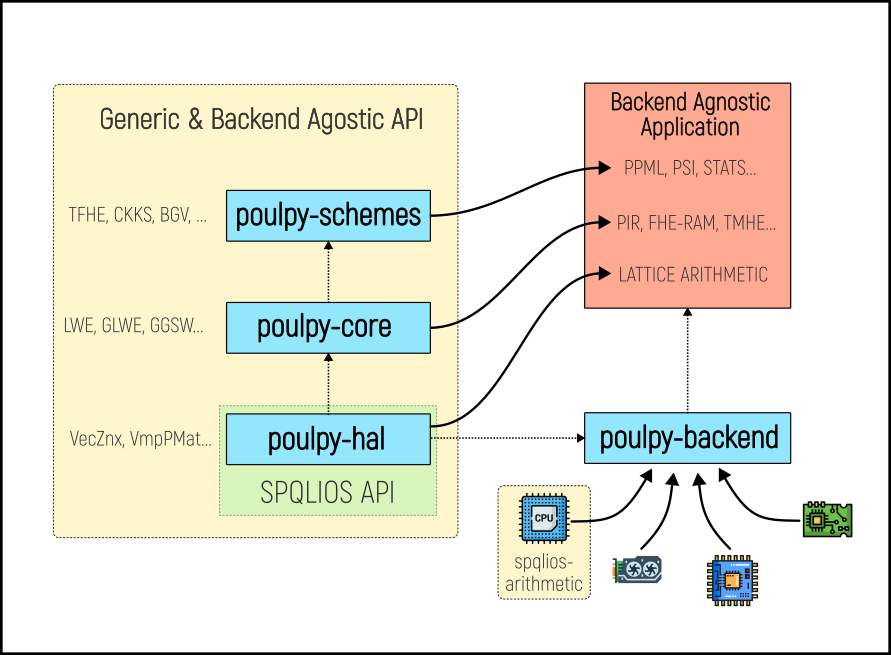
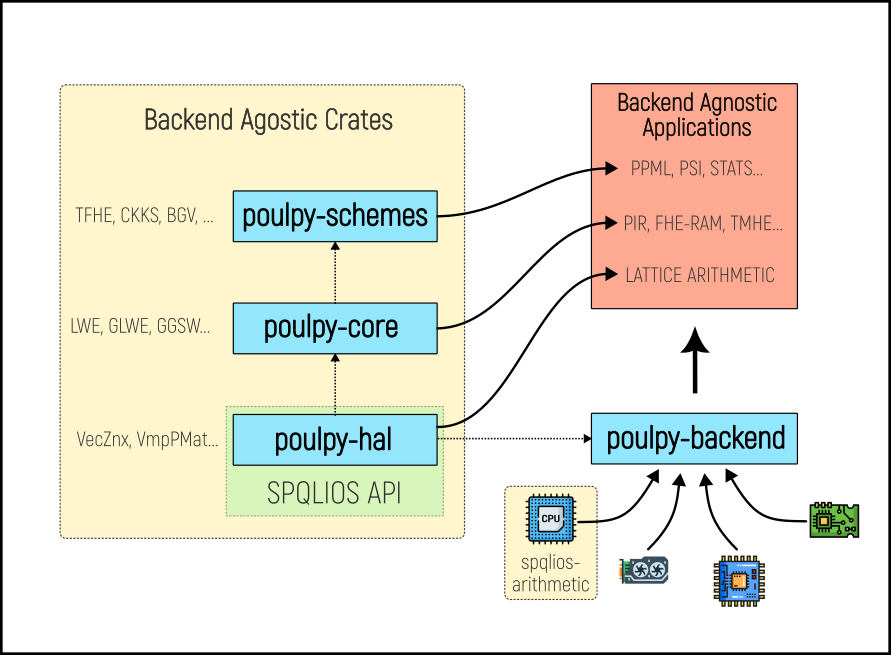
updated README

diff --git a/README.md b/README.md
@@ -7,7 +7,7 @@
 
 [![CI](https://github.com/phantomzone-org/poulpy/actions/workflows/ci.yml/badge.svg?branch=main)](https://github.com/phantomzone-org/poulpy/actions/workflows/ci.yml)
 
-**Poulpy** is a fast & modular FHE library that implements Ring-Learning-With-Errors based homomorphic encryption. It adopts the bivariate polynomial representation proposed in [Revisiting Key Decomposition Techniques for FHE: Simpler, Faster and More Generic](https://eprint.iacr.org/2023/771). In addition to simpler and more efficient arithmetic than the residue number system (RNS), this representation provides a common plaintext space for all schemes and native bridges between any two schemes. Poulpy also decouples the schemes implementations from the polynomial arithmetic backend by being built around a hardware abstraction layer (HAL). This enables user to easily provide or use a custom backend.
+**Poulpy** is a fast & modular FHE library that implements Ring-Learning-With-Errors based homomorphic encryption. It adopts the bivariate polynomial representation proposed in [Revisiting Key Decomposition Techniques for FHE: Simpler, Faster and More Generic](https://eprint.iacr.org/2023/771). In addition to simpler and more efficient arithmetic than the residue number system (RNS), this representation provides a common plaintext space for all schemes and native bridges between any two schemes. Poulpy also decouples the schemes implementations from the polynomial arithmetic backend by being built from the ground up around a **hardware abstraction layer** that closely matches the API of [spqlios-arithmetic](https://github.com/tfhe/spqlios-arithmetic)
 
 <p  align="center">
 <img  src="docs/lib_diagram.png"  />
@@ -22,12 +22,12 @@
   - **`oep`**: open extension points, which can be (re-)implemented by the user to provide a concrete backend.
   - **`tests`**: backend agnostic & generic tests for the public API.
 
-- **`poulpy-backend`**: a crate providing concrete implementations of **`poulpy-hal`**.
-  - **`cpu_spqlios`**: cpu implementation of **`poulpy-hal`** through the `oep` using bindings on spqlios-arithmetic. This implementation currently supports the `FFT64` backend and will be extended to support the `NTT120` backend once it is available in spqlios-arithmetic.
-
 - **`poulpy-core`**: a backend agnostic crate implementing scheme agnostic RLWE arithmetic for LWE, GLWE, GGLWE and GGSW ciphertexts using **`poulpy-hal`**. Can be instantiated with any backend provided by **`poulpy-backend`**.
 
 - **`poulpy-schemes`**: a backend agnostic crate implementing mainstream FHE schemes using **`poulpy-core`** and **`poulpy-hal`**. Can be instantiated with any backend provided by **`poulpy-backend`**.
+
+- **`poulpy-backend`**: a crate providing concrete implementations of **`poulpy-hal`**.
+  - **`cpu_spqlios`**: cpu implementation of **`poulpy-hal`** through the `oep` using bindings on spqlios-arithmetic. This implementation currently supports the `FFT64` backend and will be extended to support the `NTT120` backend once it is available in spqlios-arithmetic.
 
 ### Bivariate Polynomial Representation
 
@@ -43,21 +43,17 @@ This provides the following benefits:
 
 - **Unified plaintext space:** The bivariate polynomial representation is by essence a high precision discretized representation of the Torus $\mathbb{T}_{N}[X]$. Using the Torus as the common plaintext space for all schemes achieves the vision of [CHIMERA: Combining Ring-LWE-based Fully Homomorphic Encryption Schemes](https://eprint.iacr.org/2018/758) which is to unify all RLWE-based FHE schemes (TFHE, FHEW, BGV, BFV, CLPX, GBFV, CKKS, ...) under a single scheme with different encodings, enabling native and efficient scheme-switching functionalities.
 
-- **Simpler implementation**: Since the cyclotomic arithmetic is decoupled from the coefficient representation, the same pipeline (including DFT) can be reused for all limbs (unlike in the RNS representation), making this representation a prime target for hardware acceleration.
+- **Simpler implementation**: Since the cyclotomic arithmetic is decoupled from the coefficient representation, the same pipeline (including DFT) can be reused for all limbs (unlike in the RNS representation). The bivariate representation also has straight forward flat, aligned & vectorized memory layout. All these aspect make this representation a prime target for hardware acceleration.
 
 - **Deterministic computation**: Although being defined on the Torus, bivariate arithmetic remains integer polynomial arithmetic, ensuring all computations are deterministic, the contract being that output should be reproducible and identical, regardless of the backend or hardware.
-
-### Hardware Abstraction Layer 
-
-In addition to providing a general purpose FHE library over a unified plaintext space, Poulpy is also designed from the ground up around a **hardware abstraction layer** that closely matches the API of [spqlios-arithmetic](https://github.com/tfhe/spqlios-arithmetic). The bivariate representation is by itself hardware friendly as it uses flat, aligned & vectorized memory layout. Finally, generic opaque write only structs (prepared versions) are provided, making it easy for developers to provide hardware focused/optimized operations. This makes possible for anyone to provide or use a custom backend.
 
 ## Installation
 
 - **`poulpy-hal`**: https://crates.io/crates/poulpy-hal
-- **`poulpy-backend`**: https://crates.io/crates/poulpy-backend
 - **`poulpy-core`**: https://crates.io/crates/poulpy-core
 - **`poulpy-schemes`**: https://crates.io/crates/poulpy-schemes
-- 
+- **`poulpy-backend`**: https://crates.io/crates/poulpy-backend
+
 ## Documentation
 
 * Full `cargo doc` documentation is coming soon.
